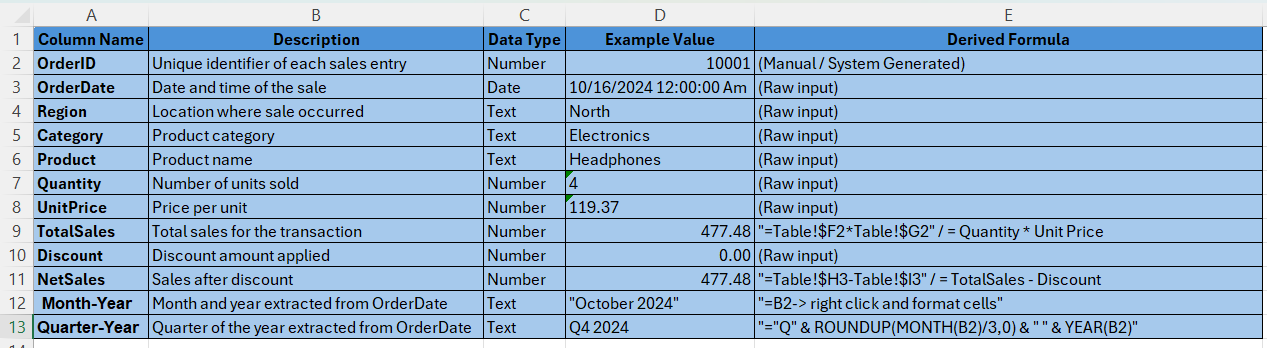
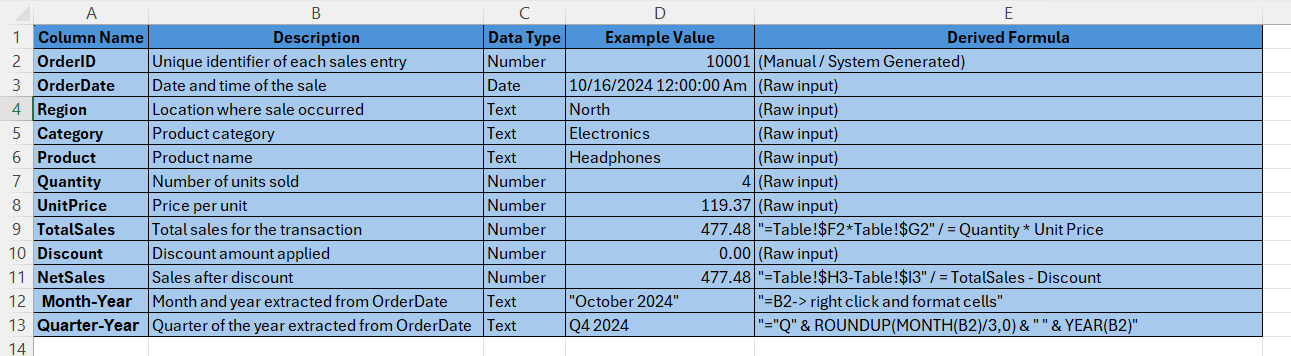
update portfolio

diff --git a/powerbi-project.html b/powerbi-project.html
@@ -316,36 +316,35 @@ p{margin-block-end:16px;} p:last-child{margin-block-end:0;}
       <p class="step-card-title">Standardize Salary Column</p>
       <ol class="instruction-list">
         <li><span class="step-num">1</span> Duplicate the salary column to preserve original data</li>
-        <li><span class="step-num">2</span> Use <strong style="color:var(--text-primary);">Split Column → By Digit to Non-Digit</strong></li>
-        <li><span class="step-num">3</span> Remove the column containing "k" suffix values</li>
-        <li><span class="step-num">4</span> Use <strong style="color:var(--text-primary);">Replace Values</strong> to strip <code style="background:var(--surface);padding:2px 7px;border-radius:4px;font-size:1.3rem;">-</code> and <code style="background:var(--surface);padding:2px 7px;border-radius:4px;font-size:1.3rem;">k</code></li>
-        <li><span class="step-num">5</span> Convert to numeric data type</li>
-      </ol>
-      <div class="img-grid">
         <div class="project-img-wrap" style="margin-block:0;">
           <img src="powerbi/image14.png" alt="Duplicate Column">
           <div class="img-caption">Duplicate Salary Column</div>
         </div>
-        <div class="project-img-wrap" style="margin-block:0;">
-          <img src="powerbi/image16.png" alt="Split Digit">
-          <div class="img-caption">Split by Digit to Non-Digit</div>
+        <li><span class="step-num">2</span> Use <strong style="color:var(--text-primary);">Split Column → By Digit to Non-Digit</strong></li>
+        <div class="project-img-wrap">
+          <img src="powerbi/image16.png" alt="After Salary Clean">
+          <div class="img-caption">Split Column</div>
+        <li><span class="step-num">3</span> Remove the column containing "k" suffix values</li>
+        <div class="project-img-wrap">
+          <img src="powerbi/image17.png" alt="After Salary Clean">
+          <div class="img-caption">Salary Values After Splitting</div>
         </div>
-      </div>
-      <div class="project-img-wrap">
-        <img src="powerbi/image17.png" alt="After Salary Clean">
-        <div class="img-caption">Salary Values After Splitting</div>
-      </div>
-      <div class="img-grid">
+        <li><span class="step-num">4</span> Use <strong style="color:var(--text-primary);">Replace Values</strong> to strip <code style="background:var(--surface);padding:2px 7px;border-radius:4px;font-size:1.3rem;">-</code> and <code style="background:var(--surface);padding:2px 7px;border-radius:4px;font-size:1.3rem;">k</code></li>
         <div class="project-img-wrap" style="margin-block:0;">
           <img src="powerbi/image18.png" alt="Replace Values">
-          <div class="img-caption">Replace Values Dialog</div>
+          <div class="img-caption">Replace "k" Values Dialog</div>
         </div>
+        <div class="project-img-wrap" style="margin-block:0;">
+          <img src="powerbi/image19.png" alt="Replace Values">
+          <div class="img-caption">Replace "-" Values Dialog</div>
+        </div>
+        <li><span class="step-num">5</span> Convert to numeric data type</li>
         <div class="project-img-wrap" style="margin-block:0;">
           <img src="powerbi/image20.png" alt="Numeric Salary">
           <div class="img-caption">Final Numeric Salary Values</div>
         </div>
-      </div>
-    </div>
+      </ol>
+    
 
     <div class="step-card">
       <p class="step-card-title">Create Average Salary Column</p>
@@ -354,7 +353,7 @@ p{margin-block-end:16px;} p:last-child{margin-block-end:0;}
         <li><span class="step-num">2</span> Name it <strong style="color:var(--text-primary);">Average Salary</strong></li>
         <li><span class="step-num">3</span> Formula: <code style="background:var(--surface);padding:2px 7px;border-radius:4px;font-size:1.3rem;">([SalaryMin] + [SalaryMax]) / 2</code></li>
       </ol>
-      <div class="img-grid">
+     
         <div class="project-img-wrap" style="margin-block:0;">
           <img src="powerbi/image21.png" alt="Custom Column">
           <div class="img-caption">Custom Column Formula</div>
@@ -363,7 +362,6 @@ p{margin-block-end:16px;} p:last-child{margin-block-end:0;}
           <img src="powerbi/image23.png" alt="Average Salary Result">
           <div class="img-caption">Average Salary Column Result</div>
         </div>
-      </div>
     </div>
 
     <div class="project-img-wrap" style="margin-block-start:32px;">
@@ -424,6 +422,10 @@ p{margin-block-end:16px;} p:last-child{margin-block-end:0;}
         <div class="data-bar-track"><div class="data-bar-fill" data-w="0.68"></div></div>
       </div>
       <div class="data-bar-item">
+        <div class="data-bar-header"><span class="data-bar-label">Other</span><span class="data-bar-val">$60.49k</span></div>
+        <div class="data-bar-track"><div class="data-bar-fill" data-w="0.64"></div></div>
+      </div>
+      <div class="data-bar-item">
         <div class="data-bar-header"><span class="data-bar-label">Data Analyst</span><span class="data-bar-val">$55.30k</span></div>
         <div class="data-bar-track"><div class="data-bar-fill" data-w="0.59"></div></div>
       </div>
@@ -438,24 +440,69 @@ p{margin-block-end:16px;} p:last-child{margin-block-end:0;}
     </div>
 
     <h3 class="sub-heading">Favorite Programming Language</h3>
-    <div class="data-bars">
-      <div class="data-bar-item">
-        <div class="data-bar-header"><span class="data-bar-label">Python</span><span class="data-bar-val">225</span></div>
-        <div class="data-bar-track"><div class="data-bar-fill" data-w="1"></div></div>
-      </div>
-      <div class="data-bar-item">
-        <div class="data-bar-header"><span class="data-bar-label">R</span><span class="data-bar-val">15</span></div>
-        <div class="data-bar-track"><div class="data-bar-fill" data-w="0.067"></div></div>
-      </div>
-      <div class="data-bar-item">
-        <div class="data-bar-header"><span class="data-bar-label">Other</span><span class="data-bar-val">13</span></div>
-        <div class="data-bar-track"><div class="data-bar-fill" data-w="0.058"></div></div>
-      </div>
-      <div class="data-bar-item">
-        <div class="data-bar-header"><span class="data-bar-label">C / C++</span><span class="data-bar-val">5</span></div>
-        <div class="data-bar-track"><div class="data-bar-fill" data-w="0.022"></div></div>
-      </div>
+<div class="data-bars">
+
+  <div class="data-bar-item">
+    <div class="data-bar-header">
+      <span class="data-bar-label">Python</span>
+      <span class="data-bar-val">417</span>
     </div>
+    <div class="data-bar-track">
+      <div class="data-bar-fill" data-w="1"></div>
+    </div>
+  </div>
+
+  <div class="data-bar-item">
+    <div class="data-bar-header">
+      <span class="data-bar-label">Other</span>
+      <span class="data-bar-val">94</span>
+    </div>
+    <div class="data-bar-track">
+      <div class="data-bar-fill" data-w="0.225"></div>
+    </div>
+  </div>
+
+  <div class="data-bar-item">
+    <div class="data-bar-header">
+      <span class="data-bar-label">R</span>
+      <span class="data-bar-val">90</span>
+    </div>
+    <div class="data-bar-track">
+      <div class="data-bar-fill" data-w="0.216"></div>
+    </div>
+  </div>
+
+  <div class="data-bar-item">
+    <div class="data-bar-header">
+      <span class="data-bar-label">C / C++</span>
+      <span class="data-bar-val">7</span>
+    </div>
+    <div class="data-bar-track">
+      <div class="data-bar-fill" data-w="0.017"></div>
+    </div>
+  </div>
+
+  <div class="data-bar-item">
+    <div class="data-bar-header">
+      <span class="data-bar-label">JavaScript</span>
+      <span class="data-bar-val">4</span>
+    </div>
+    <div class="data-bar-track">
+      <div class="data-bar-fill" data-w="0.010"></div>
+    </div>
+  </div>
+
+  <div class="data-bar-item">
+    <div class="data-bar-header">
+      <span class="data-bar-label">Java</span>
+      <span class="data-bar-val">2</span>
+    </div>
+    <div class="data-bar-track">
+      <div class="data-bar-fill" data-w="0.005"></div>
+    </div>
+  </div>
+
+</div>
 
     <h3 class="sub-heading">Difficulty Breaking Into Data</h3>
     <div class="data-bars">
@@ -582,10 +629,10 @@ p{margin-block-end:16px;} p:last-child{margin-block-end:0;}
       <ion-icon name="logo-linkedin"></ion-icon> LinkedIn Profile
     </a>
     <a href="https://www.mygreatlearning.com/certificate/FOCUXPWY?referrer_code=GLAQ7TUQ" target="_blank" class="proj-link">
-      <ion-icon name="ribbon-outline"></ion-icon> Intro to Power BI Cert
+      <ion-icon name="ribbon-outline"></ion-icon> Intro to Power BI Certificate
     </a>
     <a href="https://www.mygreatlearning.com/certificate/INHGXDYP?referrer_code=GLAQ7TUQ" target="_blank" class="proj-link">
-      <ion-icon name="ribbon-outline"></ion-icon> Data Viz Cert
+      <ion-icon name="ribbon-outline"></ion-icon> Data Vizualization Certificate
     </a>
   </div>
 </aside>

diff --git a/sql-layoffs-project.html b/sql-layoffs-project.html
@@ -139,7 +139,7 @@ p{margin-block-end:16px;} p:last-child{margin-block-end:0;}
 .project-img-wrap:hover img{transform:scale(1.01);}
 .img-caption{background:var(--surface);padding:10px 16px;font-size:1.2rem;color:var(--text-muted);font-family:var(--ff-display);font-weight:600;text-transform:uppercase;letter-spacing:1.5px;}
 .img-sm{max-width:340px;}
-.img-grid{display:grid;grid-template-columns:1fr 1fr;gap:16px;margin-block:18px;}
+.img-grid{display:grid;grid-template-columns:1fr;gap:16px;margin-block:18px;}
 
 /* Issue tag */
 .issue-grid{display:grid;grid-template-columns:repeat(auto-fit,minmax(200px,1fr));gap:12px;margin-block:20px;}
@@ -345,12 +345,13 @@ p{margin-block-end:16px;} p:last-child{margin-block-end:0;}
         <div class="code-header">
           <div class="code-dots"><div class="code-dot"></div><div class="code-dot"></div><div class="code-dot"></div></div>
           <span class="code-lang">SQL</span>
-          <button class="copy-btn" onclick="copyCode(this, 'SELECT *,\nROW_NUMBER() OVER(\n  PARTITION BY company, industry, total_laid_off, `date`\n) AS row_num\nFROM layoffs_staging;')"><ion-icon name="copy-outline"></ion-icon> Copy</button>
+          <button class="copy-btn" onclick="copyCode(this, 'SELECT *,\nROW_NUMBER() OVER(\n    PARTITION BY company, location, industry,\n    total_laid_off, percentage_laid_off, `date`,\n    stage, country, funds_raised_millions\n  )"><ion-icon name="copy-outline"></ion-icon> Copy</button>
         </div>
         <div class="code-body"><pre><code><span class="kw">SELECT</span> <span class="op">*</span>,
-  <span class="fn">ROW_NUMBER</span>() <span class="kw">OVER</span>(
-    <span class="kw">PARTITION BY</span> <span class="tb">company</span>, <span class="tb">industry</span>, <span class="tb">total_laid_off</span>, <span class="bt">`date`</span>
-  ) <span class="kw">AS</span> <span class="tb">row_num</span>
+  <span class="fn">ROW_NUMBER</span>() <span class="kw">OVER</span>
+  (<span class="kw">PARTITION BY</span> <span class="tb">company</span>, <span class="tb">location</span>, <span class="tb">industry</span>,
+          <span class="tb">total_laid_off</span>, <span class="tb">percentage_laid_off</span>, <span class="bt">`date`</span>,
+          <span class="tb">stage</span>, <span class="tb">country</span>, <span class="tb">funds_raised_millions</span>) <span class="kw">AS</span> <span class="tb">row_num</span>
 <span class="kw">FROM</span> <span class="tb">layoffs_staging</span>;</code></pre></div>
       </div>
       <div class="project-img-wrap">
@@ -446,7 +447,7 @@ p{margin-block-end:16px;} p:last-child{margin-block-end:0;}
 <span class="kw">FROM</span> <span class="tb">layoffs_staging2</span>
 <span class="kw">WHERE</span> <span class="tb">row_num</span> <span class="op">&gt;</span> <span class="nm">1</span>;</code></pre></div>
       </div>
-      <div class="project-img-wrap img-sm">
+      <div class="project-img-wrap">
         <img src="sql/image3.png" alt="Duplicates Deleted">
         <div class="img-caption">Duplicate Rows Deleted</div>
       </div>
@@ -582,11 +583,7 @@ p{margin-block-end:16px;} p:last-child{margin-block-end:0;}
       <div class="img-grid">
         <div class="project-img-wrap" style="margin-block:0;">
           <img src="sql/image12.png" alt="NULL Industry Rows">
-          <div class="img-caption">Rows With NULL Industry</div>
-        </div>
-        <div class="project-img-wrap" style="margin-block:0;">
-          <img src="sql/image11.png" alt="Blank Industry Rows">
-          <div class="img-caption">Rows With Blank Industry</div>
+          <div class="img-caption">Rows With NULL and BLANK Industry</div>
         </div>
       </div>
 
@@ -601,7 +598,7 @@ p{margin-block-end:16px;} p:last-child{margin-block-end:0;}
 <span class="kw">SET</span> <span class="tb">industry</span> <span class="op">=</span> <span class="kw">NULL</span>
 <span class="kw">WHERE</span> <span class="tb">industry</span> <span class="op">=</span> <span class="st">''</span>;</code></pre></div>
       </div>
-      <div class="project-img-wrap img-sm">
+      <div class="project-img-wrap ">
         <img src="sql/image13.png" alt="Blanks to NULL">
         <div class="img-caption">Blanks Converted to NULL</div>
       </div>
@@ -627,9 +624,18 @@ p{margin-block-end:16px;} p:last-child{margin-block-end:0;}
 
       <div class="rec-box" style="margin-block-start:20px;">
         <p class="rec-box-label">📝 Note</p>
-        <p style="font-size:1.5rem;color:var(--text-secondary);margin:0;">NULL values in <code style="background:rgba(255,255,255,.06);padding:1px 6px;border-radius:4px;font-family:var(--ff-code);font-size:1.2rem;">total_laid_off</code>, <code style="background:rgba(255,255,255,.06);padding:1px 6px;border-radius:4px;font-family:var(--ff-code);font-size:1.2rem;">percentage_laid_off</code>, and <code style="background:rgba(255,255,255,.06);padding:1px 6px;border-radius:4px;font-family:var(--ff-code);font-size:1.2rem;">funds_raised_millions</code> were intentionally kept — they represent genuinely missing data that may be useful in exploratory analysis.</p>
+        <p style="font-size:1.5rem;color:var(--text-secondary);margin:0;">
+          NULL values in 
+          <code style="background:rgba(255,255,255,.06);padding:1px 6px;border-radius:4px;font-family:var(--ff-code);font-size:1.2rem;">total_laid_off</code>, 
+          <code style="background:rgba(255,255,255,.06);padding:1px 6px;border-radius:4px;font-family:var(--ff-code);font-size:1.2rem;">percentage_laid_off</code>, and 
+          <code style="background:rgba(255,255,255,.06);padding:1px 6px;border-radius:4px;font-family:var(--ff-code);font-size:1.2rem;">funds_raised_millions</code> 
+          were generally preserved, as they represent genuinely missing data useful for exploratory analysis. However, rows where both 
+          <code style="background:rgba(255,255,255,.06);padding:1px 6px;border-radius:4px;font-family:var(--ff-code);font-size:1.2rem;">total_laid_off</code> 
+          and 
+          <code style="background:rgba(255,255,255,.06);padding:1px 6px;border-radius:4px;font-family:var(--ff-code);font-size:1.2rem;">percentage_laid_off</code> 
+          were NULL were removed due to having no analytical value.
+        </p>
       </div>
-    </div>
 
     <!-- Step 7 -->
     <div class="step-block">

diff --git a/excel-project-sales.html b/excel-project-sales.html
@@ -3,7 +3,7 @@
 <head>
 <meta charset="UTF-8">
 <meta name="viewport" content="width=device-width, initial-scale=1.0">
-<title>Excel Sales Dashboard — Myca Santillan</title>
+<title>Excel Retails Store Inventory & Sales — Myca Santillan</title>
 <link rel="preconnect" href="https://fonts.googleapis.com">
 <link rel="preconnect" href="https://fonts.gstatic.com" crossorigin>
 <link href="https://fonts.googleapis.com/css2?family=Syne:wght@400;600;700;800&family=DM+Sans:wght@300;400;500&display=swap" rel="stylesheet">
@@ -106,7 +106,7 @@ p{margin-block-end:16px;} p:last-child{margin-block-end:0;}
 .project-img-wrap img{width:100%;display:block;transition:transform .4s ease;}
 .project-img-wrap:hover img{transform:scale(1.01);}
 .img-caption{background:var(--surface);padding:10px 16px;font-size:1.2rem;color:var(--text-muted);font-family:var(--ff-display);font-weight:600;text-transform:uppercase;letter-spacing:1.5px;}
-.img-grid{display:grid;grid-template-columns:1fr 1fr;gap:16px;margin-block:18px;}
+.img-grid{display:grid;grid-template-columns:1fr ;gap:16px;margin-block:18px;}
 
 /* Cert callout */
 .cert-callout{display:flex;align-items:center;gap:14px;background:var(--accent-dim);border:1px solid rgba(232,197,71,.25);border-radius:12px;padding:16px 20px;margin-block:20px;}
@@ -182,7 +182,7 @@ p{margin-block-end:16px;} p:last-child{margin-block-end:0;}
     <div class="project-crumb">
       <span>Portfolio</span><span class="dot">✦</span><span>Excel</span>
     </div>
-    <h1 class="project-title">Retail Sales<br><span>Dashboard</span></h1>
+    <h1 class="project-title">Retails Store Inventory & Sales<br><span>Dashboard</span></h1>
     <p class="project-desc">
       Transforming raw retail data into actionable insights through Excel — Pivot Tables, dynamic charts, and an interactive dashboard with slicers for regional and category filtering.
     </p>
@@ -191,7 +191,6 @@ p{margin-block-end:16px;} p:last-child{margin-block-end:0;}
       <span class="meta-tag">Pivot Tables</span>
       <span class="meta-tag">Data Cleaning</span>
       <span class="meta-tag">Dashboard</span>
-      <span class="meta-tag">VLOOKUP / XLOOKUP</span>
       <span class="meta-tag">Great Learning Certified</span>
     </div>
   </div>
@@ -220,7 +219,7 @@ p{margin-block-end:16px;} p:last-child{margin-block-end:0;}
     <p class="section-label">Overview</p>
     <h2 class="section-heading">Introduction</h2>
     <p>
-      This project analyzes a retail sales dataset using Microsoft Excel. The dataset was provided by
+      This project analyzes a retail store inventory and sales dataset using Microsoft Excel. The dataset was provided by
       <strong style="color:var(--text-primary);">Great Learning</strong> as part of their
       <a href="https://www.mygreatlearning.com/certificate/FFRBRIBH?referrer_code=GLAQ7TUQ" target="_blank" style="color:var(--accent);">Excel for Beginners certification</a> program.
     </p>
@@ -294,16 +293,16 @@ p{margin-block-end:16px;} p:last-child{margin-block-end:0;}
       <div class="img-grid">
         <div class="project-img-wrap" style="margin-block:0;">
           <img src="excel/image2.png" alt="Preprocessing Step 1">
-          <div class="img-caption">Calculated Fields</div>
+          <div class="img-caption">Total Sales column</div>
         </div>
         <div class="project-img-wrap" style="margin-block:0;">
           <img src="excel/image3.png" alt="Preprocessing Step 2">
-          <div class="img-caption">Date Columns</div>
+          <div class="img-caption">Net Sales column</div>
         </div>
       </div>
       <div class="project-img-wrap">
         <img src="excel/image4.png" alt="Preprocessing Step 3">
-        <div class="img-caption">Preprocessed Dataset</div>
+        <div class="img-caption">Quarter-Year column</div>
       </div>
     </div>
 
@@ -332,11 +331,11 @@ p{margin-block-end:16px;} p:last-child{margin-block-end:0;}
       <div class="step-header"><div class="step-badge">5</div><h3 class="step-title">Category & Regional Analysis</h3></div>
       <p class="step-desc">Separate pivot tables identify the best-selling product categories and compare revenue performance across all store regions.</p>
       <div class="img-grid">
-        <div class="project-img-wrap" style="margin-block:0;">
+        <div class="project-img-wrap">
           <img src="excel/image7.png" alt="Category Analysis">
           <div class="img-caption">Category Performance</div>
         </div>
-        <div class="project-img-wrap" style="margin-block:0;">
+        <div class="project-img-wrap">
           <img src="excel/image8.png" alt="Regional Analysis">
           <div class="img-caption">Regional Breakdown</div>
         </div>
@@ -385,7 +384,7 @@ p{margin-block-end:16px;} p:last-child{margin-block-end:0;}
       <div class="metric-card"><div class="metric-value">Apr</div><div class="metric-label">2024 Peak Month</div></div>
     </div>
 
-    <p>In 2023, March saw the lowest Net Sales (₱111,281) while May peaked at ₱155,424. In 2024, the lowest point shifted to July (₱108,607) while April reached the highest at ₱186,341.</p>
+    <p>In 2023, March saw the lowest Net Sales (111,281) while May peaked at 155,424. In 2024, the lowest point shifted to July (108,607) while April reached the highest at 186,341.</p>
     <p style="margin-top:12px;">Interactive slicers allow stakeholders to drill into any region, category, or time window without touching the raw data.</p>
 
     <ul class="result-check" style="margin-block-start:20px;">

diff --git a/index.html b/index.html
@@ -97,7 +97,7 @@
     <p class="section-label">About Me</p>
     <div class="about-grid">
       <div>
-        <h2 class="section-title" style="margin-block-end: 24px;">Data Analyst &<br>BI Enthusiast</h2>
+        <h2 class="section-title" style="margin-block-end: 24px;">Data Analyst </h2>
         <p class="about-text">
           I'm a data enthusiast with a strong passion for data analytics, visualization, and business intelligence. I enjoy exploring datasets, identifying patterns, and presenting insights through clear, compelling dashboards.
         </p>
